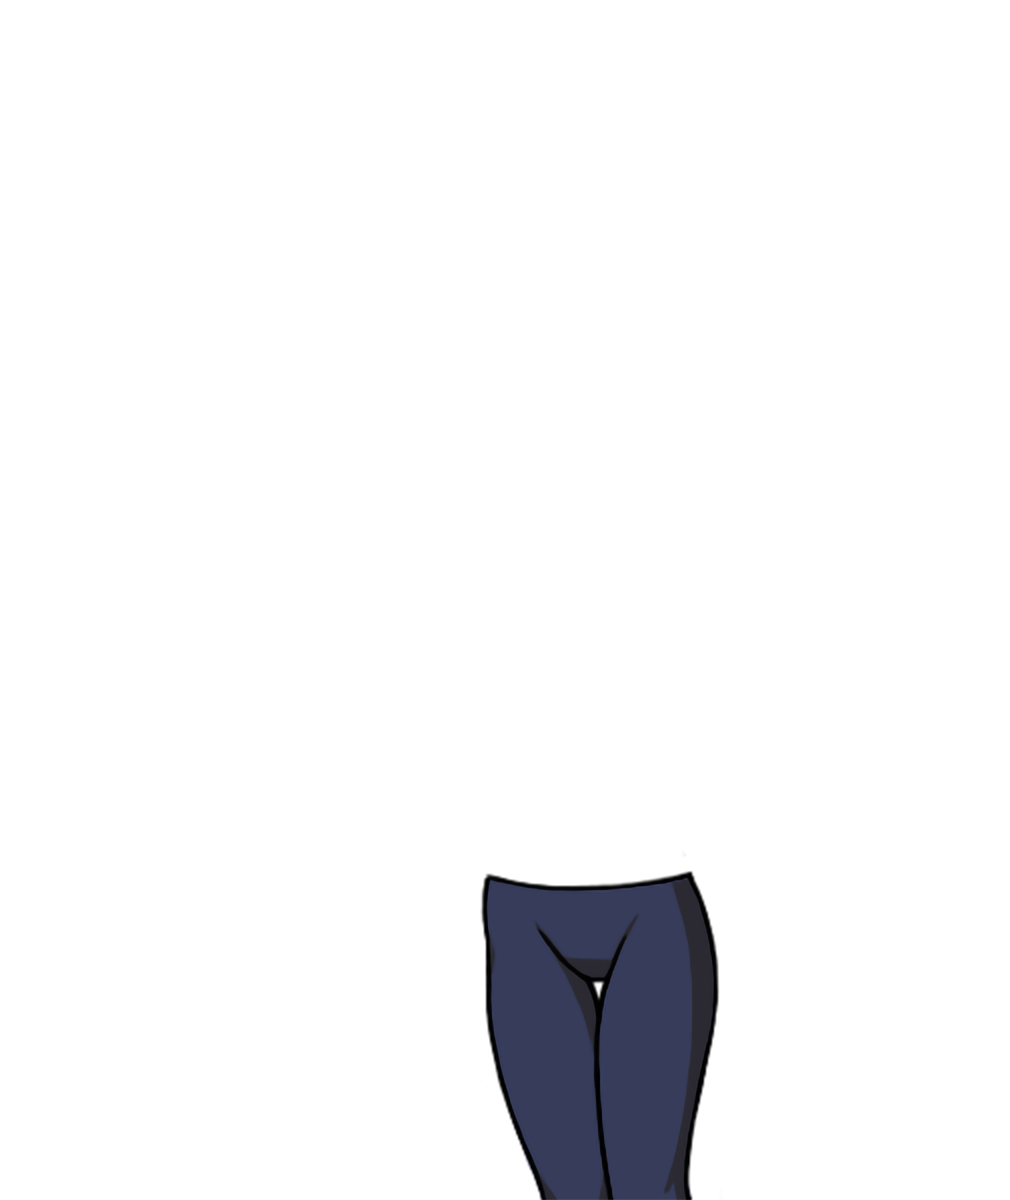
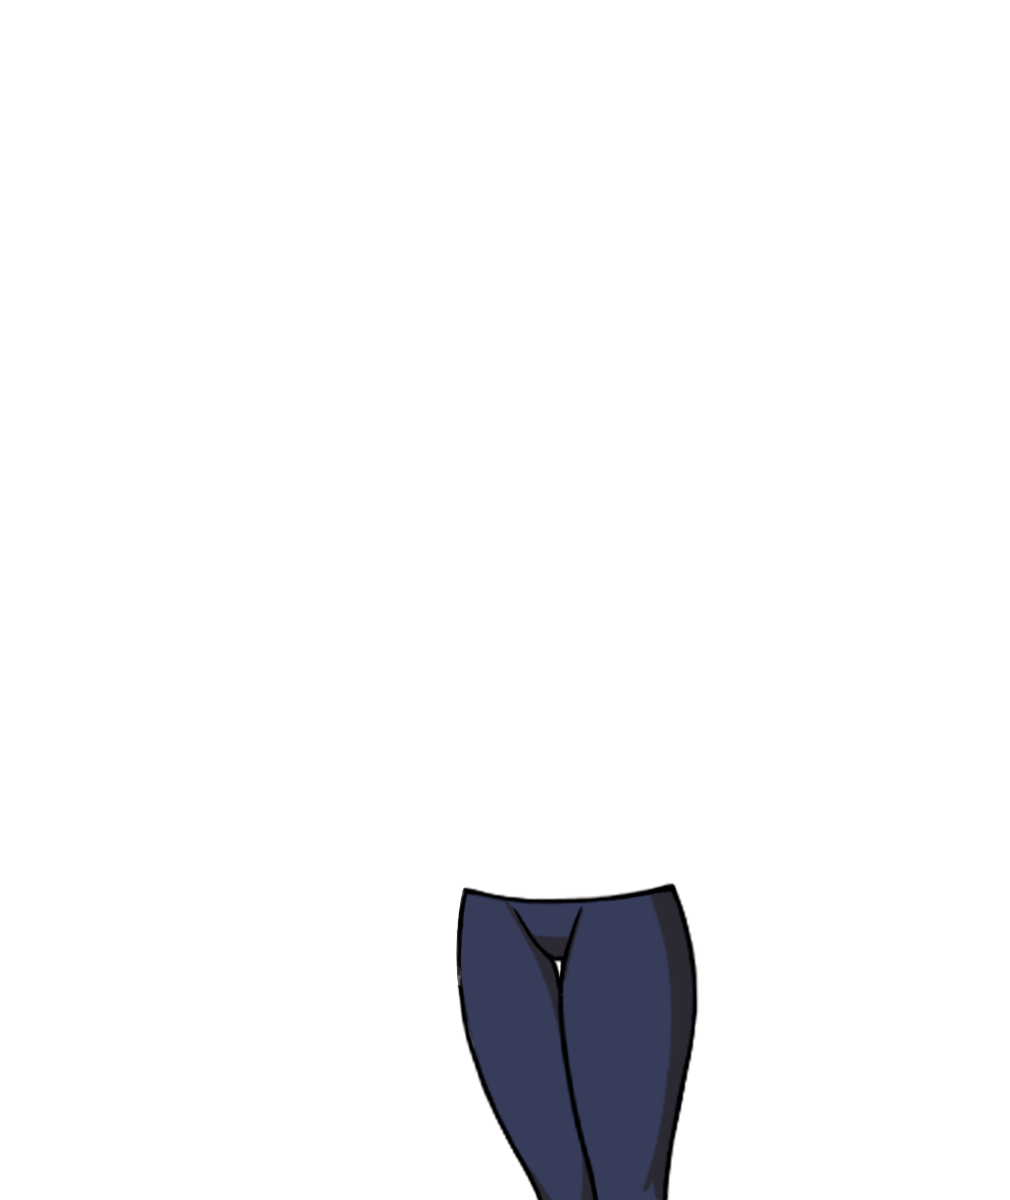
1.34 - Final (#115)
* Added more clothing

* Several bugfixes

Changed region(s): [[0.4297, 0.7092, 0.7366, 1.0]]

diff --git a/README.md b/README.md
@@ -21,16 +21,16 @@ Our official [Witch Trainer: Silver Patreon](https://www.patreon.com/MoCoder) pa
 
 
 ## Current Team
-- **Mo**:		        Writing, coding and mod compilation
-- **Mad Merlin**:		Coding, UI overhaul, wardrobe stuff, some writing.
-- **Soggy**:        Our main Artist. You can support him [here](https://www.patreon.com/SoggyIllustrations).
-- **STG Anon**:		  Coding
-- **Asease1**:		  Coding
-- **Johnny**:		    Writing
-- **Booom313**:		  Mobile port for Android. You can support him [here](https://www.patreon.com/booom313/).
-- **Sandmaster**:   Assitant Management, Networking, and moderation.
-- **Magik**:        Networking, Management, and Administration.
-- **Pinguino**:     Support, QA, being a Penguin.
+- **Mo**:		            Writing, coding and mod compilation
+- **Mad Merlin**:		    Coding, UI overhaul, wardrobe stuff, some writing.
+- **Soggy**:            Main Artist. You can support them [here](https://www.patreon.com/SoggyIllustrations).
+- **DostojevskijSTG**:  Artist
+- **LoafyLemon**:       Artist
+- **Johnny**:		        Writing
+- **Asease1**:		      Coding
+- **STG Anon**:		      Coding
+- **Booom313**:		      Mobile port for Android. You can support them [here](https://www.patreon.com/booom313/).
+- **Magik**:            Networking, Management, and Administration.
 
 
 ## Additional Credits (In no particular order):
@@ -44,7 +44,7 @@ Our official [Witch Trainer: Silver Patreon](https://www.patreon.com/MoCoder) pa
 - **Maverick**:		  Miscellaneous
 - **Cleanzo**:		  Coding (Helped with the python methods.)
 - **Techy**:		    Outfit
-- **Akabur**:		    Creater of Witch Trainer and other awesome games! You can support him [here](https://www.patreon.com/akabur). 
+- **Akabur**:		    Creater of Witch Trainer and other awesome games! You can support them [here](https://www.patreon.com/akabur). 
 - *(If you feel that you contributed to this project and would like recognition or your work removed please email me at slavetrainermod@gmail.com)*
 
 ## More Info:
